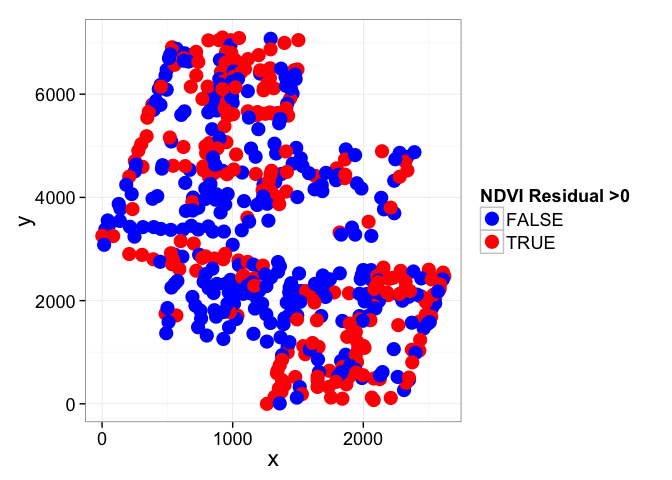
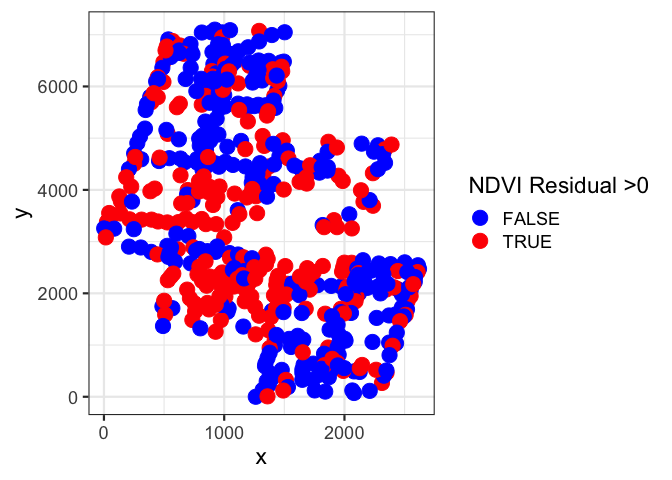
Update to new version of lavaan

diff --git a/Readme.md b/Readme.md
@@ -1,5 +1,5 @@
 **Correcting Standard Errors in SEMs fit with Covariance Matrices and ML
-using Moran's I**
+using Moran’s I**
 
 This code addresses the problem of correcting sample sizes and standard
 errors in the presence of spatial autocorrelation in Structural Equation
@@ -9,15 +9,15 @@ walks through the steps to calculate corrections piece by piece. You can
 see a longer explanation at <http://www.imachordata.com/?p=1714>
 
 The second is a function that impelements the correction for all
-endogenous variables, using Moran's I and an approximation of an
+endogenous variables, using Moran’s I and an approximation of an
 effective sample size for large sample sizes.
 
 For an example, consuder the Boreal Vegetation dataset from Zuur et
-al.'s [Mixed Effects Models and Extensions in Ecology with
+al.’s [Mixed Effects Models and Extensions in Ecology with
 R](http://www.highstat.com/book2.htm). The data shows vegetation NDVI
 from satellite data, as well as a number of other covariates -
 information on climate (days where the temperature passed some
-threshold, I believe), wetness, and species richness. And space. Here's
+threshold, I believe), wetness, and species richness. And space. Here’s
 what the data look like, for example:
 
     # Boreality data from http://www.highstat.com/book2.htm
@@ -27,6 +27,7 @@ what the data look like, for example:
 
     #For later
     source("./lavSpatialCorrect.R")
+    source("./lavResidualsY.R")
 
     #Let's look at the spatial structure
     library(ggplot2)
@@ -36,6 +37,11 @@ what the data look like, for example:
       scale_size_continuous("Index of Wetness", range=c(0,10)) + 
       scale_color_gradient("NDVI", low="lightgreen", high="darkgreen")
 
+    ## Warning: `qplot()` was deprecated in ggplot2 3.4.0.
+    ## This warning is displayed once every 8 hours.
+    ## Call `lifecycle::last_lifecycle_warnings()` to see where this warning was
+    ## generated.
+
 ![](Readme_files/figure-markdown_strict/visualize-data-1.png)
 
 We can fit a model using [lavaan](http://lavaan.org) where NDVI is
@@ -44,8 +50,8 @@ and richness is itself also affected by climate.
 
     library(lavaan)
 
-    ## This is lavaan 0.5-17
-    ## lavaan is BETA software! Please report any bugs.
+    ## This is lavaan 0.6-14
+    ## lavaan is FREE software! Please report any bugs.
 
     # A simple model where NDVI is determined
     # by nTot, temperature, and Wetness
@@ -62,7 +68,7 @@ However, the residuals show autocorrelation. One way to see this is just
 to look at the spatial pattern of the signs of residuals.
 
     # residuals are key for the analysis
-    borRes <- as.data.frame(residuals(borFit, "casewise"))
+    borRes <- lavResidualsY(borFit)
 
     #raw visualization of NDVI residuals
     qplot(x, y, data=boreal, color=borRes$NDVI, size=I(5)) +
@@ -78,8 +84,8 @@ to look at the spatial pattern of the signs of residuals.
 
 ![](Readme_files/figure-markdown_strict/residual-analysis-sign-1.png)
 
-lavSpatialCorrect calculates Moran's I for the residuals of all
-endogenous variables, and then spatially corrects them via Moran's I. If
+lavSpatialCorrect calculates Moran’s I for the residuals of all
+endogenous variables, and then spatially corrects them via Moran’s I. If
 they are spatially independent, the effective sample size = the true
 sample size.
 
@@ -89,8 +95,8 @@ sample size.
 
     ## $Morans_I
     ## $Morans_I$NDVI
-    ##     observed     expected          sd p.value    n.eff
-    ## 1 0.08265236 -0.001879699 0.003985846       0 451.6189
+    ##     observed     expected         sd p.value    n.eff
+    ## 1 0.08235969 -0.001879699 0.00398581       0 451.8852
     ## 
     ## $Morans_I$nTot
     ##     observed     expected          sd p.value    n.eff
@@ -99,25 +105,21 @@ sample size.
     ## 
     ## $parameters
     ## $parameters$NDVI
-    ##             Parameter      Estimate    n.eff      Std.err   Z-value
-    ## NDVI~nTot   NDVI~nTot -0.0003567484 451.6189 0.0001848868  -1.92955
-    ## NDVI~T61     NDVI~T61 -0.0354776273 451.6189 0.0024493462 -14.48453
-    ## NDVI~Wet     NDVI~Wet -4.2700526589 451.6189 0.1436405689 -29.72734
-    ## NDVI~~NDVI NDVI~~NDVI  0.0017298286 451.6189 0.0001151150  15.02696
-    ## NDVI~1         NDVI~1 10.8696158663 451.6189 0.7268790958  14.95382
+    ##             Parameter      Estimate    n.eff      Std.err    Z-value
+    ## NDVI~nTot   NDVI~nTot -0.0003567484 451.8852 0.0001848323  -1.930119
+    ## NDVI~T61     NDVI~T61 -0.0354776273 451.8852 0.0024486246 -14.488798
+    ## NDVI~Wet     NDVI~Wet -4.2700526409 451.8852 0.1435982476 -29.736106
+    ## NDVI~~NDVI NDVI~~NDVI  0.0017298286 451.8852 0.0001150811  15.031387
+    ## NDVI~1         NDVI~1 10.8696158605 451.8852 0.7266649329  14.958223
     ##                  P(>|z|)
-    ## NDVI~nTot   5.366259e-02
-    ## NDVI~T61    1.517587e-47
-    ## NDVI~Wet   3.404230e-194
-    ## NDVI~~NDVI  4.889505e-51
-    ## NDVI~1      1.470754e-50
+    ## NDVI~nTot   5.359211e-02
+    ## NDVI~T61    1.426164e-47
+    ## NDVI~Wet   2.622798e-194
+    ## NDVI~~NDVI  4.573319e-51
+    ## NDVI~1      1.376535e-50
     ## 
     ## $parameters$nTot
-    ##             Parameter    Estimate    n.eff     Std.err   Z-value
-    ## nTot~T61     nTot~T61    1.170661 493.4468   0.5674087  2.063171
-    ## nTot~~nTot nTot~~nTot  112.051871 493.4468   7.1336853 15.707431
-    ## nTot~1         nTot~1 -322.936937 493.4468 168.1495917 -1.920534
-    ##                 P(>|z|)
-    ## nTot~T61   3.909634e-02
-    ## nTot~~nTot 1.345204e-55
-    ## nTot~1     5.479054e-02
+    ##             Parameter    Estimate    n.eff     Std.err   Z-value      P(>|z|)
+    ## nTot~T61     nTot~T61    1.170661 493.4468   0.5674087  2.063171 3.909634e-02
+    ## nTot~~nTot nTot~~nTot  112.051871 493.4468   7.1336853 15.707431 1.345205e-55
+    ## nTot~1         nTot~1 -322.936930 493.4468 168.1495919 -1.920534 5.479054e-02
